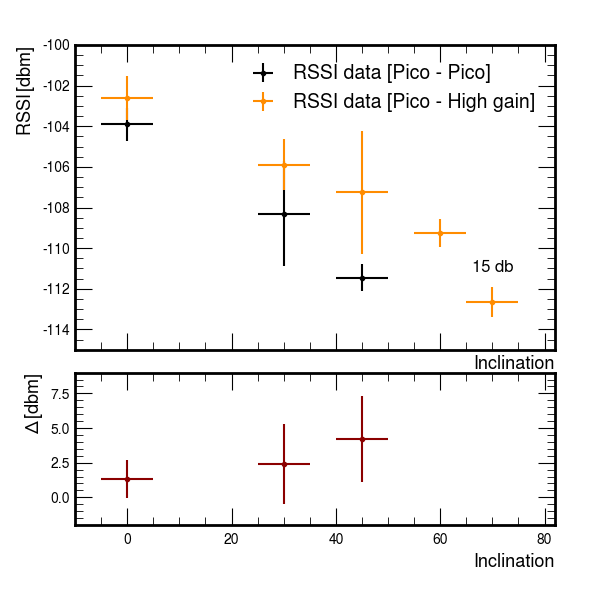
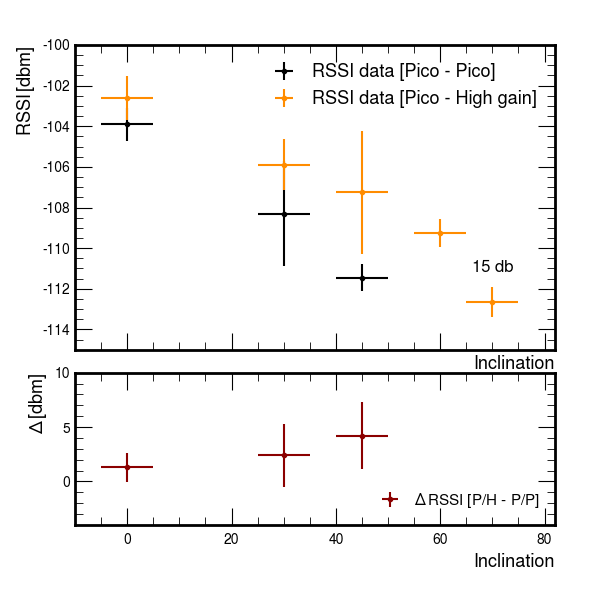
Add SNR gain analysis and improve graph labeling
Introduces computation and plotting of SNR gain and gain difference between antenna configurations in test_graph.py, saving the new plot as SNR_gain.png. Also updates graph labels, legend sizes, and y-axis limits for clarity, and comments out debug print statements.

diff --git a/python/test_graph.py b/python/test_graph.py
@@ -100,8 +100,8 @@ for i in range(0, len(RSSI)):
 
 for i in range(0, len(RSSI_ag)):
     if i % 5 == 0:
-        print(RSSI_ag[i:i+5])
-        print("-----------")
+        # print(RSSI_ag[i:i+5])
+        # print("-----------")
         RSSI_mean_ag.append(np.mean(RSSI_ag[i:i+5]))
         RSSI_std_ag.append(statistics.stdev(RSSI_ag[i:i+5]))
         SNR_mean_ag.append(np.mean(SNR_ag[i:i+5]))
@@ -310,12 +310,11 @@ conta = 0
 for i in range(len(SNR_mean)):
     for k in range(len(SNR_mean_ag)):
         if angle_mean_ag[k] == angle_mean[i]:
-            diff[conta] = np.abs(SNR_mean_ag[k] - SNR_mean[i])
+            diff[conta] = (SNR_mean_ag[k] - SNR_mean[i])
             diff_std[conta] = np.sqrt(pow(SNR_std_ag[k], 2) + pow(SNR_std[i], 2))
             conta = conta + 1
             break
 
-print(diff)
 # Plotting SNR pico-pico e pico-high gain(with another graph for delta)
 fig, axx = plt.subplots(2, 1, figsize=(6, 6),sharex=True, height_ratios=[2, 1])
 axx[0].errorbar(angle_mean,SNR_mean,xerr = 5, yerr = SNR_std, fmt='o', label=r'SNR data [Pico - Pico]',ms=3,color='black', zorder = 2, lw = 1.5)
@@ -326,16 +325,17 @@ axx[0].set_xlabel(r'Inclination', size = 13)
 axx[1].set_ylabel(r'$\Delta  \, [db]$', size = 13)
 axx[1].set_xlabel(r'Inclination', size = 13)
 
-axx[1].errorbar(angle_mean,diff,xerr = 5, yerr =diff_std, fmt='o', label=r'SNR data [Pico - High gain]',ms=3,color='darkred', zorder = 2, lw = 1.5)
+axx[1].errorbar(angle_mean,diff,xerr = 5, yerr =diff_std, fmt='o', label=r'$\Delta \,$SNR [P/H - P/P]',ms=3,color='darkred', zorder = 2, lw = 1.5)
 
 axx[0].set_xlim(-10, 82)
 axx[0].set_ylim(-20, 2)
 axx[1].set_xlim(-10, 82)
-axx[1].set_ylim(-3.5, 8)
+axx[1].set_ylim(-9, 5)
 
 axx[0].text(70, -13.5, r'15 db', fontsize=12, color='black', ha='center', va='center')
 
-axx[0].legend(prop={'size': 14}, loc='upper right', frameon=False).set_zorder(2)
+axx[0].legend(prop={'size': 13}, loc='upper right', frameon=False).set_zorder(2)
+axx[1].legend(prop={'size': 11}, loc='lower right', frameon=False).set_zorder(2)
 
 plt.savefig('./python/graph/SNR_conf'+'.png',
             pad_inches = 1,
@@ -353,12 +353,11 @@ conta = 0
 for i in range(len(RSSI_mean)):
     for k in range(len(RSSI_mean_ag)):
         if angle_mean_ag[k] == angle_mean[i]:
-            diff[conta] = np.abs(RSSI_mean_ag[k] - RSSI_mean[i])
+            diff[conta] = (RSSI_mean_ag[k] - RSSI_mean[i])
             diff_std[conta] = np.sqrt(pow(RSSI_std_ag[k], 2) + pow(RSSI_std[i], 2))
             conta = conta + 1
             break
 
-print(diff)
 # Plotting RSSI pico-pico e pico-high gain(with another graph for delta)
 fig, axx = plt.subplots(2, 1, figsize=(6, 6),sharex=True, height_ratios=[2, 1])
 axx[0].errorbar(angle_mean,RSSI_mean,xerr = 5, yerr = RSSI_std, fmt='o', label=r'RSSI data [Pico - Pico]',ms=3,color='black', zorder = 2, lw = 1.5)
@@ -369,16 +368,17 @@ axx[0].set_xlabel(r'Inclination', size = 13)
 axx[1].set_ylabel(r'$\Delta  \, [dbm]$', size = 13)
 axx[1].set_xlabel(r'Inclination', size = 13)
 
-axx[1].errorbar(angle_mean,diff,xerr = 5, yerr =diff_std, fmt='o', label=r'RSSI data [Pico - High gain]',ms=3,color='darkred', zorder = 2, lw = 1.5)
+axx[1].errorbar(angle_mean,diff,xerr = 5, yerr =diff_std, fmt='o', label=r'$\Delta \,$RSSI [P/H - P/P]',ms=3,color='darkred', zorder = 2, lw = 1.5)
 
 axx[0].set_xlim(-10, 82)
 axx[0].set_ylim(-115, -100)
 axx[1].set_xlim(-10, 82)
-axx[1].set_ylim(-2, 9)
+axx[1].set_ylim(-4, 10)
 
 axx[0].text(70, -111, r'15 db', fontsize=12, color='black', ha='center', va='center')
 
-axx[0].legend(prop={'size': 14}, loc='upper right', frameon=False).set_zorder(2)
+axx[0].legend(prop={'size': 13}, loc='upper right', frameon=False).set_zorder(2)
+axx[1].legend(prop={'size': 11}, loc='lower right', frameon=False).set_zorder(2)
 
 plt.savefig('./python/graph/RSSI_conf'+'.png',
             pad_inches = 1,
@@ -424,5 +424,65 @@ plt.savefig('./python/graph/RSSI_ag'+'.png',
             orientation='Portrait',
             dpi=100)
 
-plt.show()
+# Computing gain
+gain_SNR = np.zeros(len(SNR_mean), dtype=np.float64)
+gain_SNR_ag = np.zeros(len(SNR_mean_ag), dtype=np.float64)
+gain_SNR_std = np.zeros(len(SNR_mean), dtype=np.float64)
+gain_SNR_ag_std = np.zeros(len(SNR_mean_ag), dtype=np.float64)
 
+for i in range(len(gain_SNR)):
+    gain_SNR[i] = SNR_mean[i] - SNR_mean[0]
+    gain_SNR_std[i] = np.sqrt(pow(SNR_std[0], 2) + pow(SNR_std[i], 2))
+
+for i in range(len(gain_SNR_ag)):
+    gain_SNR_ag[i] = SNR_mean_ag[i] - SNR_mean_ag[0]
+    gain_SNR_ag_std[i] = np.sqrt(pow(SNR_std_ag[0], 2) + pow(SNR_std_ag[i], 2))
+
+# Computing the difference between the gain of pico and antenna
+gain_diff = np.zeros(len(SNR_mean), dtype=np.float64)
+gain_diff_std = np.zeros(len(SNR_mean), dtype=np.float64)
+
+# Resetting counter
+conta = 0
+
+for i in range(len(SNR_mean)):
+    for k in range(len(SNR_mean_ag)):
+        if angle_mean_ag[k] == angle_mean[i]:
+            gain_diff[conta] = (gain_SNR_ag[k] - gain_SNR[i])
+            gain_diff_std[conta] = np.sqrt(pow(gain_SNR_ag_std[k], 2) + pow(gain_SNR_std[i], 2))
+            conta = conta + 1
+            break
+
+# Plotting gain and gain difference
+fig, axx = plt.subplots(2, 1, figsize=(6, 6),sharex=True, height_ratios=[2, 1])
+axx[0].errorbar(angle_mean,gain_SNR,xerr = 5, yerr = gain_SNR_std, fmt='o', label=r'SNR gain [Pico - Pico]',ms=3,color='black', zorder = 2, lw = 1.5)
+axx[0].errorbar(angle_mean_ag,gain_SNR_ag,xerr = 5, yerr = gain_SNR_ag_std, fmt='o', label=r'SNR gain [Pico - High gain]',ms=3,color='deepskyblue', zorder = 2, lw = 1.5)
+
+axx[0].set_ylabel(r'$Gain \, [db]$', size = 13)
+axx[0].set_xlabel(r'Inclination', size = 13)
+axx[1].set_ylabel(r'$\Delta  \, [db]$', size = 13)
+axx[1].set_xlabel(r'Inclination', size = 13)
+
+axx[1].errorbar(angle_mean,gain_diff,xerr = 5, yerr = gain_diff_std, fmt='o', label=r'$\Delta \, $ Gain [P/H - P/P]',ms=3,color='darkblue', zorder = 2, lw = 1.5)
+
+axx[0].set_xlim(-18, 82)
+axx[0].set_ylim(-15, 3)
+axx[1].set_xlim(-10, 82)
+axx[1].set_ylim(-4, 12)
+
+axx[0].text(70, -11.9, r'15 db', fontsize=12, color='black', ha='center', va='center')
+axx[0].text(0, -2.5, r'Same', fontsize=12, color='black', ha='center', va='center')
+
+axx[0].legend(prop={'size': 13}, loc='lower left', frameon=False).set_zorder(2)
+axx[1].legend(prop={'size': 13}, loc='lower right', frameon=False).set_zorder(2)
+
+plt.savefig('./python/graph/SNR_gain'+'.png',
+            pad_inches = 1,
+            transparent = True,
+            facecolor ="w",
+            edgecolor ='w',
+            orientation ='Portrait',
+            dpi = 100)
+
+
+plt.show()
